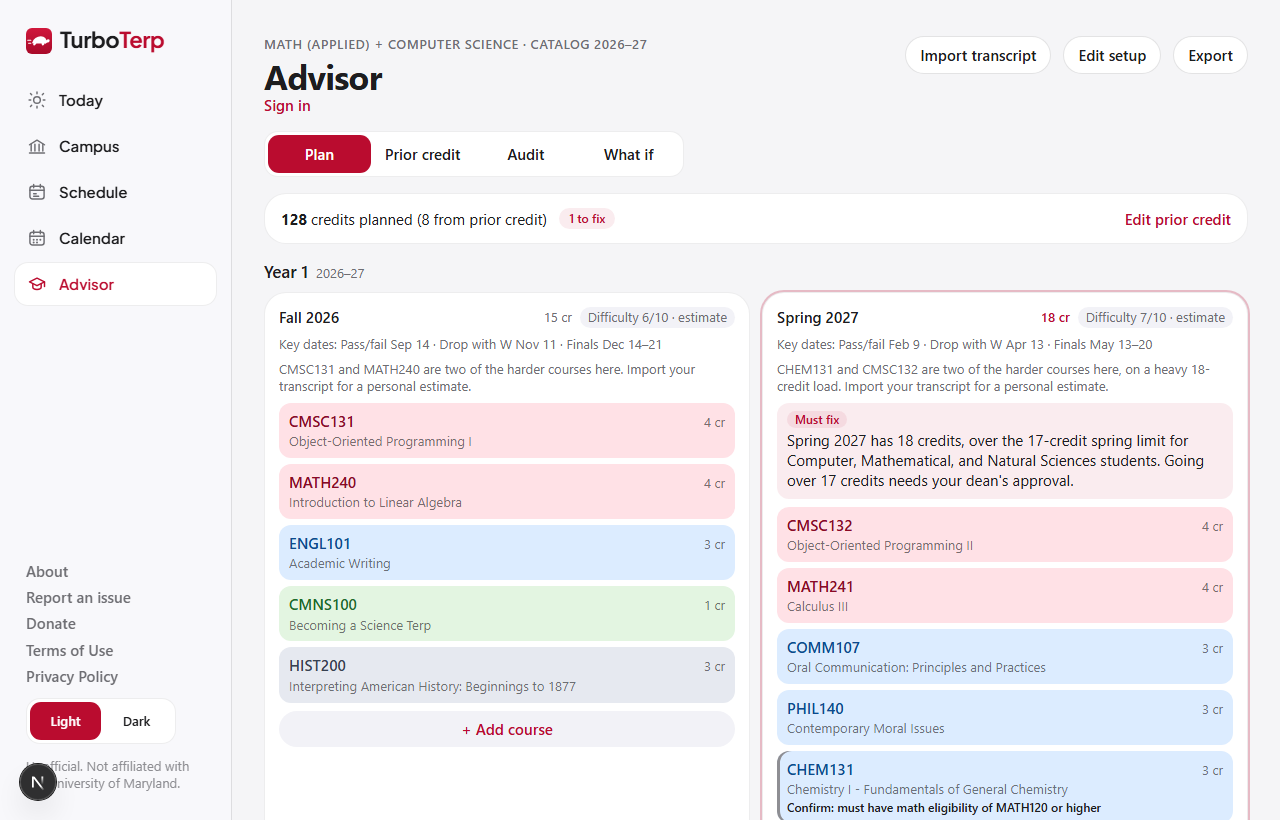
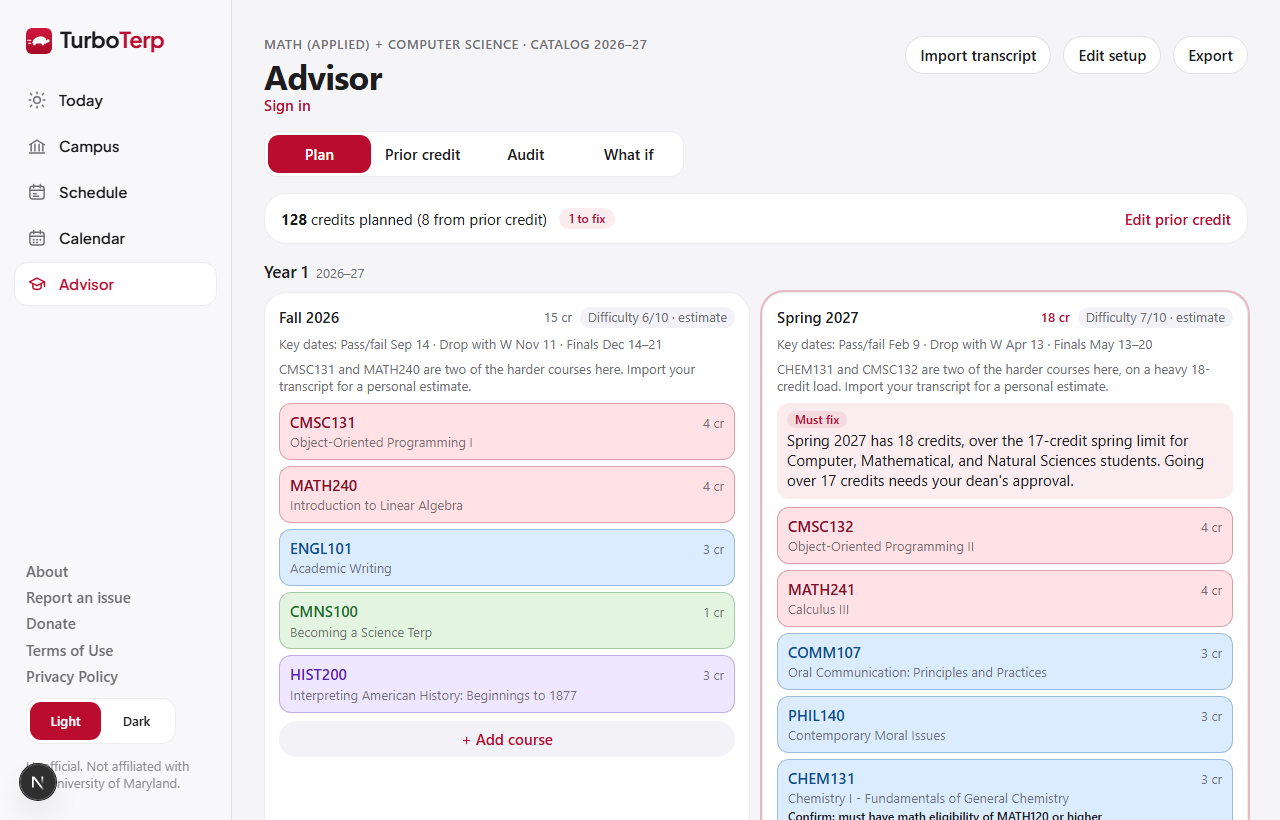
Advisor rows: every row colored (unassigned = elective amber, other = purple) and outlined in its hue like the Schedule chips; issues shown as the outline color (owner)

Changed region(s): [[0.2188, 0.4878, 0.9688, 1.0], [0.3438, 0.8841, 0.4375, 0.9146]]

diff --git a/apps/web/app/advisor/advisor.module.css b/apps/web/app/advisor/advisor.module.css
@@ -607,21 +607,20 @@
   gap: 6px;
 }
 
+/* Every row is filled with its category's pastel and outlined in the same hue, like the Schedule's course chips. */
 .courseCard {
+  --row-bg: var(--cat-elective-bg);
+  --row-fg: var(--cat-elective-fg);
   border-radius: 12px;
-  background: var(--cat-other-bg);
-  box-shadow: inset 3px 0 0 transparent;
+  background: var(--row-bg);
+  border: 1px solid color-mix(in srgb, var(--row-fg) 30%, transparent);
 }
-.courseCard[data-cat="major"] { background: var(--cat-major-bg); }
-.courseCard[data-cat="gened"] { background: var(--cat-gened-bg); }
-.courseCard[data-cat="college"] { background: var(--cat-college-bg); }
-.courseCard[data-cat="elective"] { background: var(--cat-elective-bg); }
-.courseCard[data-cat="other"] { background: var(--cat-other-bg); }
-.courseCard[data-cat="major"] .courseId { color: var(--cat-major-fg); }
-.courseCard[data-cat="gened"] .courseId { color: var(--cat-gened-fg); }
-.courseCard[data-cat="college"] .courseId { color: var(--cat-college-fg); }
-.courseCard[data-cat="elective"] .courseId { color: var(--cat-elective-fg); }
-.courseCard[data-cat="other"] .courseId { color: var(--cat-other-fg); }
+.courseCard[data-cat="major"] { --row-bg: var(--cat-major-bg); --row-fg: var(--cat-major-fg); }
+.courseCard[data-cat="gened"] { --row-bg: var(--cat-gened-bg); --row-fg: var(--cat-gened-fg); }
+.courseCard[data-cat="college"] { --row-bg: var(--cat-college-bg); --row-fg: var(--cat-college-fg); }
+.courseCard[data-cat="elective"] { --row-bg: var(--cat-elective-bg); --row-fg: var(--cat-elective-fg); }
+.courseCard[data-cat="other"] { --row-bg: var(--cat-other-bg); --row-fg: var(--cat-other-fg); }
+.courseCard .courseId { color: var(--row-fg); }
 
 .legend {
   display: flex;
@@ -638,20 +637,13 @@
 .legend [data-cat="college"] i { background: var(--cat-college-fg); }
 .legend [data-cat="elective"] i { background: var(--cat-elective-fg); }
 
+/* A problem shows as the outline's color; "confirm" and "info" rows explain themselves in text. */
 .courseCard[data-severity="error"] {
-  box-shadow: inset 3px 0 0 var(--accent);
+  border: 1.5px solid var(--accent);
 }
 
 .courseCard[data-severity="warning"] {
-  box-shadow: inset 3px 0 0 var(--soon);
-}
-
-.courseCard[data-severity="confirm"] {
-  box-shadow: inset 3px 0 0 var(--text-3);
-}
-
-.courseCard[data-severity="info"] {
-  box-shadow: inset 3px 0 0 var(--open);
+  border: 1.5px solid var(--soon);
 }
 
 .courseButton {

diff --git a/apps/web/app/globals.css b/apps/web/app/globals.css
@@ -104,7 +104,7 @@
   --cat-gened-bg: #dcecff; --cat-gened-fg: #0b4a8f;
   --cat-college-bg: #e3f5e1; --cat-college-fg: #1f6b2a;
   --cat-elective-bg: #fff0d1; --cat-elective-fg: #7a4a00;
-  --cat-other-bg: #e6e9f0; --cat-other-fg: #374151;
+  --cat-other-bg: #efe7ff; --cat-other-fg: #5b21b6;
 
   /* Motion */
   --spring: cubic-bezier(0.32, 0.72, 0, 1);
@@ -164,7 +164,7 @@
     --cat-gened-bg: #10304f; --cat-gened-fg: #b9d9ff;
     --cat-college-bg: #173a1c; --cat-college-fg: #bfe8b8;
     --cat-elective-bg: #3f2e0b; --cat-elective-fg: #ffd98a;
-    --cat-other-bg: #282d38; --cat-other-fg: #d1d6e0;
+    --cat-other-bg: #2b1f47; --cat-other-fg: #d6c6ff;
   }
 }
 
@@ -223,7 +223,7 @@
     --cat-gened-bg: #10304f; --cat-gened-fg: #b9d9ff;
     --cat-college-bg: #173a1c; --cat-college-fg: #bfe8b8;
     --cat-elective-bg: #3f2e0b; --cat-elective-fg: #ffd98a;
-    --cat-other-bg: #282d38; --cat-other-fg: #d1d6e0;
+    --cat-other-bg: #2b1f47; --cat-other-fg: #d6c6ff;
 }
 
 *,

diff --git a/apps/web/app/advisor/PlanView.tsx b/apps/web/app/advisor/PlanView.tsx
@@ -63,7 +63,7 @@ export function PlanView({
     if (analysis.result) for (const t of plan.terms) for (const c of t.courses) m.set(c.id, rowCategory(c.id, analysis.result, kinds));
     return m;
   }, [analysis.result, plan.terms]);
-  const catOf = (id: string): RowCategory => cats.get(id) ?? "other";
+  const catOf = (id: string): RowCategory => cats.get(id) ?? "elective";
   const legend = legendCategories(plan.terms.flatMap((t) => t.courses.map((c) => catOf(c.id))));
 
   return (
@@ -147,7 +147,7 @@ const LEGEND_LABELS: Record<RowCategory, string> = {
   gened: "Gen Ed",
   college: "College",
   elective: "Elective",
-  other: "Other",
+  other: "Minor / other program",
 };
 
 function nextMainTerm(last: string): string {

diff --git a/apps/web/lib/__tests__/advisor-row-category.test.ts b/apps/web/lib/__tests__/advisor-row-category.test.ts
@@ -20,7 +20,7 @@ describe("rowCategory", () => {
   it("Gen Ed layer", () => expect(rowCategory("DSHU101", analysis, kinds)).toBe("gened"));
   it("college layer", () => expect(rowCategory("CMNS100", analysis, kinds)).toBe("college"));
   it("minor maps to other", () => expect(rowCategory("MATH140", analysis, kinds)).toBe("other"));
-  it("unassigned is other", () => expect(rowCategory("ART100", analysis, kinds)).toBe("other"));
+  it("unassigned counts as an elective, so every row gets a color", () => expect(rowCategory("ART100", analysis, kinds)).toBe("elective"));
 });
 describe("legendCategories", () => {
   it("keeps fixed order and drops absent", () => {

diff --git a/apps/web/lib/advisor/row-category.ts b/apps/web/lib/advisor/row-category.ts
@@ -9,6 +9,8 @@ const ORDER: RowCategory[] = ["major", "gened", "college", "elective", "other"];
 
 export function rowCategory(courseId: string, analysis: Pick<Analysis, "audits">, programKinds?: Record<string, string>): RowCategory {
   const cat = courseCategories(analysis, programKinds).get(courseId);
+  // No requirement claimed it: it's a free elective (amber), never an uncolored row.
+  if (cat === undefined) return "elective";
   if (cat === "major") return "major";
   if (cat === "gen-ed") return "gened";
   if (cat === "other") {

diff --git a/docs/project/rulings.md b/docs/project/rulings.md
@@ -114,4 +114,5 @@ Topics, in order: TDD and rebuild rules; CMSC141/142; CS gateway; schedule build
 - **More pre-professional tracks (owner, 2026-09-29):** add every pre-professional track that has actual fixed prerequisites (set by a national accreditor, licensing board or professional body), beyond the HPAO and pre-law ones. Tracks whose programs have few or no fixed prerequisites (MBA, MPH, MSW) are left out.
 - **Advisor checks stay small (owner, 2026-10-04):** a course that needs extra confirmation gets a small bold note under the class on the 4-year plan, not a list entry. Things every student knows (the 12-credit full-time rule) and declaration notes (major, double major, dual degree) are small extra tips, not cards. A plan is four years by default, including after a transcript import; semesters are added or removed by the student. No Checks column: a check shows in the term or class it relates to; "Must fix" items always use the red-bar row with the pill, everything else is smaller.
 - **UI rework rulings (owner, 2026-10-05; mock `docs/design/ui-rework/option-final.css`, screenshots `docs/screenshots/ui-rework/final-*.png`):** direction is B "Widgets" (tiles, red hero widget, pastel category fills on plan rows, floating pill tab bar) with B1 tinted tiles and B2 flat hairline borders (no tile shadows), S1 class blocks (solid fill, deeper 1.5px edge, soft shadow, white text). **Dining must not look brown:** light tiles are peach with a bright orange icon; in dark mode every tile is graphite with a solid colored icon chip (no tinted fills in dark). **Today dining tiles list actual foods** being served at the current meal (e.g. "Lunch: Orange chicken, Margherita pizza"), not station names. **"Search for a food"** field on Today's Dining section and at the top of the Dining page, searching the current day across all halls (uses the existing `searchMenus` endpoint). Desktop keeps the full labelled sidebar (Claude's assumption; B2's icon rail was shown and not chosen).
+- **Advisor course rows (owner, 2026-10-06):** every row is colored (no gray rows) and outlined like the Schedule course chips: pastel fill + 1px border in the same hue. Categories: major red, Gen Ed blue, college green, elective amber (any course no requirement claims), minor / other program purple (as in the PDF). A row with an error or warning shows it as a red or amber 1.5px outline, not a left bar; "Confirm" and info notes stay as text.
 - **Today sections are tile grids; actions are tiles that navigate (owner, 2026-10-06):** the Dining section follows Libraries: one tile per hall (name, then the main foods in small text inside the tile), then an accent **"Find a food"** tile as the last tile: on desktop all five on one line (`TileGrid row`), Find a food last; on phone, where it would sit alone, it spans the last row as a wide tile (owner: "should be grouped with other boxes to look neat"), which opens the search screen `/campus/dining/search` (search, hall chips, meal chips), just as "Find a study room" opens Rooms. No inline tools or results on Today: the owner rejected an inline "Find a food" search block ("absolutely not").
